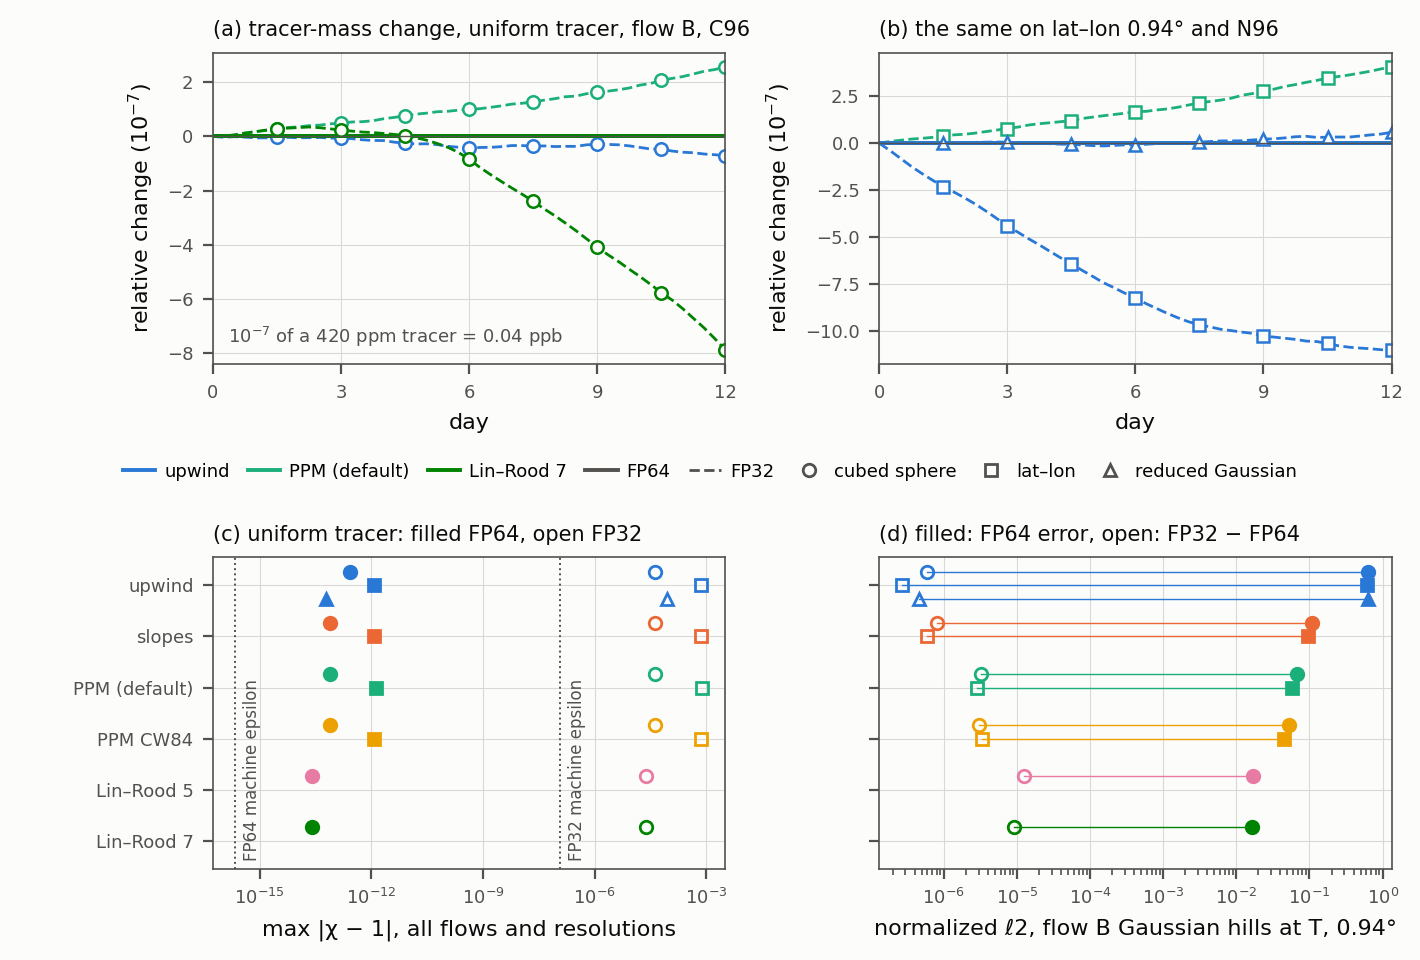
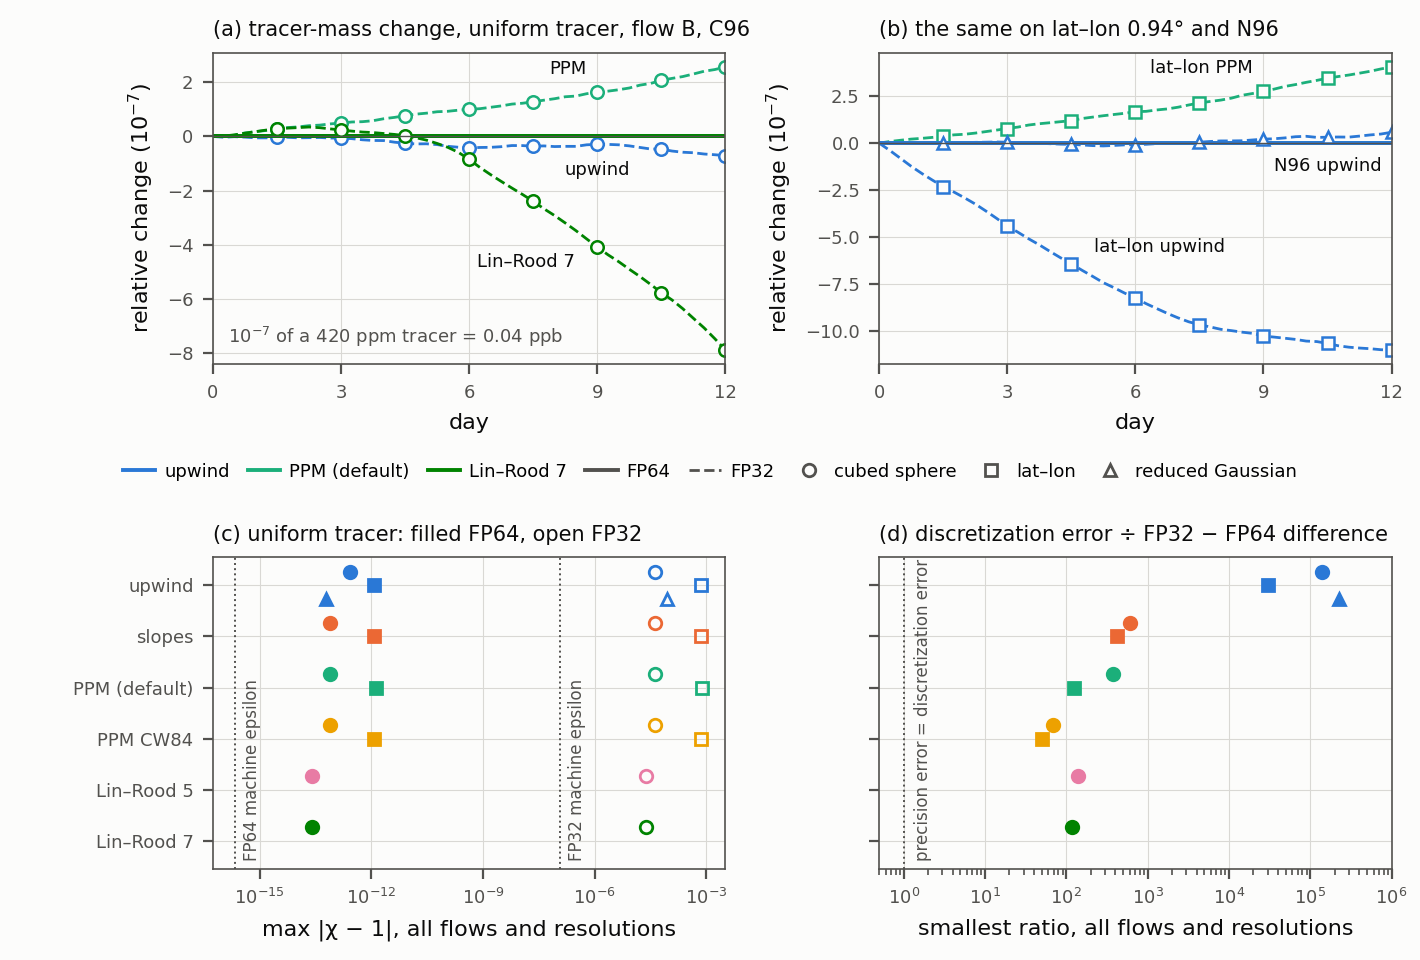
Conservation figure: one ratio per scheme and grid in panel (d), labelled lines
Panel (d) showed the FP64 error and the FP32 - FP64 difference as
connected pairs for three grids, which was hard to read. It now shows
one number per scheme and grid: the smallest ratio of the FP64 l2 error
to the FP32 - FP64 l2 difference over all flows, resolutions,
non-uniform tracers and both times, with a reference line at one.

The FP32 lines of panels (a) and (b) are labelled directly, because two
lines of (b) share the upwind colour.

Claude-Session: https://claude.ai/code/session_01Qfkez3tXkdGpzp8H8U6PPz

diff --git a/examples/paper/idealized_advection/plot_figures.py b/examples/paper/idealized_advection/plot_figures.py
@@ -18,8 +18,9 @@ conservation.pdf      Marker shape = grid as in convergence.pdf, filled = FP64, 
                       against time in flow B at 0.94 deg, in units of 1e-7: (a) C96, (b) lat-lon
                       and N96; (c) largest |chi - 1| of the uniform tracer per scheme and grid
                       (all flows and resolutions), with the machine epsilon of each precision
-                      (dotted); (d) FP32 - FP64 l2 difference next to the FP64
-                      l2 error per scheme and grid (flow B, smooth tracer, 0.94 deg).
+                      (dotted); (d) l2 error of the FP64 run divided by the FP32 - FP64 l2 difference:
+                      smallest ratio per scheme and grid (all flows, resolutions, non-uniform
+                      tracers, T/2 and T).
 tilt.pdf              flow A l2 at T against the tilt of the rotation axis (0, 45, 90 degrees).
 """
 import argparse
@@ -286,13 +287,18 @@ def conservation_figure(rows, series, figures):
     marker = {family: st["marker"] for family, st in FAMILY_STYLE.items()}
     # (a, b) uniform tracer in flow B at 0.94 degrees, linear axes in units of 1e-7: FP64 stays on the zero line
     exponent = -7
+    # per line: grid family, scheme, label of the FP32 line and its place (day, offset in points, ha, va)
     panels = (("(a) tracer-mass change, uniform tracer, flow B, C96",
-               [("cs", "upwind"), ("cs", "ppm"), ("cs", "linrood7")]),
+               [("cs", "upwind", "upwind", (9, (0, -6), "center", "top")),
+                ("cs", "ppm", "PPM", (9, (-4, 5), "right", "bottom")),
+                ("cs", "linrood7", "Lin–Rood 7", (9, (-8, -2), "right", "top"))]),
               ("(b) the same on lat–lon 0.94° and N96",
-               [("ll", "upwind"), ("ll", "ppm"), ("rg", "upwind")]))
+               [("ll", "upwind", "lat–lon upwind", (4.5, (8, 3), "left", "bottom")),
+                ("ll", "ppm", "lat–lon PPM", (9, (-4, 5), "right", "bottom")),
+                ("rg", "upwind", "N96 upwind", (10.5, (0, -7), "center", "top"))]))
     for col, (title, picks) in enumerate(panels):
         ax = fig.add_subplot(gs[0, col])
-        for family, scheme in picks:
+        for family, scheme, text, (day, offset, ha, va) in picks:
             for prec, ls, tag in (("Float64", "-", "f64"), ("Float32", "--", "f32")):
                 rid = f"{FAMILY_GRID[family]}_B_{scheme}_{tag}"
                 pts = [(r["hour"] / 24, r["budget_rel"]) for r in series if r["run_id"] == rid and r["tracer"] == "uniform"]
@@ -303,6 +309,10 @@ def conservation_figure(rows, series, figures):
                 ax.plot(x, np.array(y) / 10.0**exponent, ls, color=COLOR[scheme], lw=1.4 if fp64 else 1.0,
                         marker=None if fp64 else marker[family], markevery=(6, 6), ms=4.5, mfc=SURFACE,
                         mec=COLOR[scheme], mew=0.9)
+                if not fp64:               # name the line itself: two lines of (b) share the upwind colour
+                    k = int(np.argmin(np.abs(np.array(x) - day)))
+                    ax.annotate(text, (x[k], y[k] / 10.0**exponent), xytext=offset, textcoords="offset points",
+                                fontsize=6.5, color=INK, ha=ha, va=va)
         ax.axhline(0, color=INK2, lw=0.5)
         ax.set_xlim(0, 12)
         ax.set_xticks(range(0, 13, 3))
@@ -349,24 +359,26 @@ def conservation_figure(rows, series, figures):
     ax.tick_params(labelsize=6.5)
     _style(ax)
 
-    # (d) FP32 - FP64 next to the FP64 discretization error, flow B smooth tracer, the three grids at 0.94 degrees
+    # (d) how many times the FP32 - FP64 difference is below the discretization error: smallest ratio per
+    # scheme and grid over all flows, resolutions, non-uniform tracers and both times (T/2, T)
     ax = fig.add_subplot(gs[1, 1])
     for i, (scheme, label, color) in enumerate(SCHEMES):
         for family, dy in FAMILY_OFFSET.items():
-            sel = [r for r in rows if r["grid"] == FAMILY_GRID[family] and r["scheme"] == scheme and r["flow"] == "B"
-                   and r["tracer"] == "gaussian_hills" and r["time"] == "T" and not r["tag"]]
-            e64 = [r["l2"] for r in sel if r["precision"] == "Float64"]
-            d = [r["fp32_minus_fp64_l2"] for r in sel if r["precision"] == "Float32"]
-            if e64 and d:
-                ax.plot([d[0], e64[0]], [i + dy, i + dy], "-", color=color, lw=0.5)
-                ax.plot([e64[0]], [i + dy], marker[family], color=color, ms=4.5)
-                ax.plot([d[0]], [i + dy], marker[family], color=color, mfc="none", ms=4.5)
+            v = [r["fp64_l2_same_case"] / r["fp32_minus_fp64_l2"] for r in rows
+                 if r["family"] == family and r["scheme"] == scheme and r["precision"] == "Float32"
+                 and r["tracer"] != "uniform" and not r["tag"] and r["fp32_minus_fp64_l2"] > 0]
+            if v:
+                ax.plot([min(v)], [i + dy], marker[family], color=color, ms=4.5)
     ax.set_xscale("log")
+    ax.set_xlim(0.5, 1e6)
+    ax.axvline(1, color=INK2, lw=0.7, ls=":")
+    ax.text(1.35, len(SCHEMES) - 0.6, "precision error = discretization error", fontsize=6, color=INK2,
+            rotation=90, ha="left", va="bottom")
     ax.set_yticks(range(len(SCHEMES)))
     ax.set_yticklabels([])
     ax.set_ylim(len(SCHEMES) - 0.45, -0.55)
-    ax.set_xlabel("normalized ℓ2, flow B Gaussian hills at T, 0.94°")
-    ax.set_title("(d) filled: FP64 error, open: FP32 − FP64", fontsize=7.5, color=INK, loc="left")
+    ax.set_xlabel("smallest ratio, all flows and resolutions")
+    ax.set_title("(d) discretization error ÷ FP32 − FP64 difference", fontsize=7.5, color=INK, loc="left")
     ax.tick_params(labelsize=6.5)
     _style(ax)
     save(fig, figures, "conservation")
